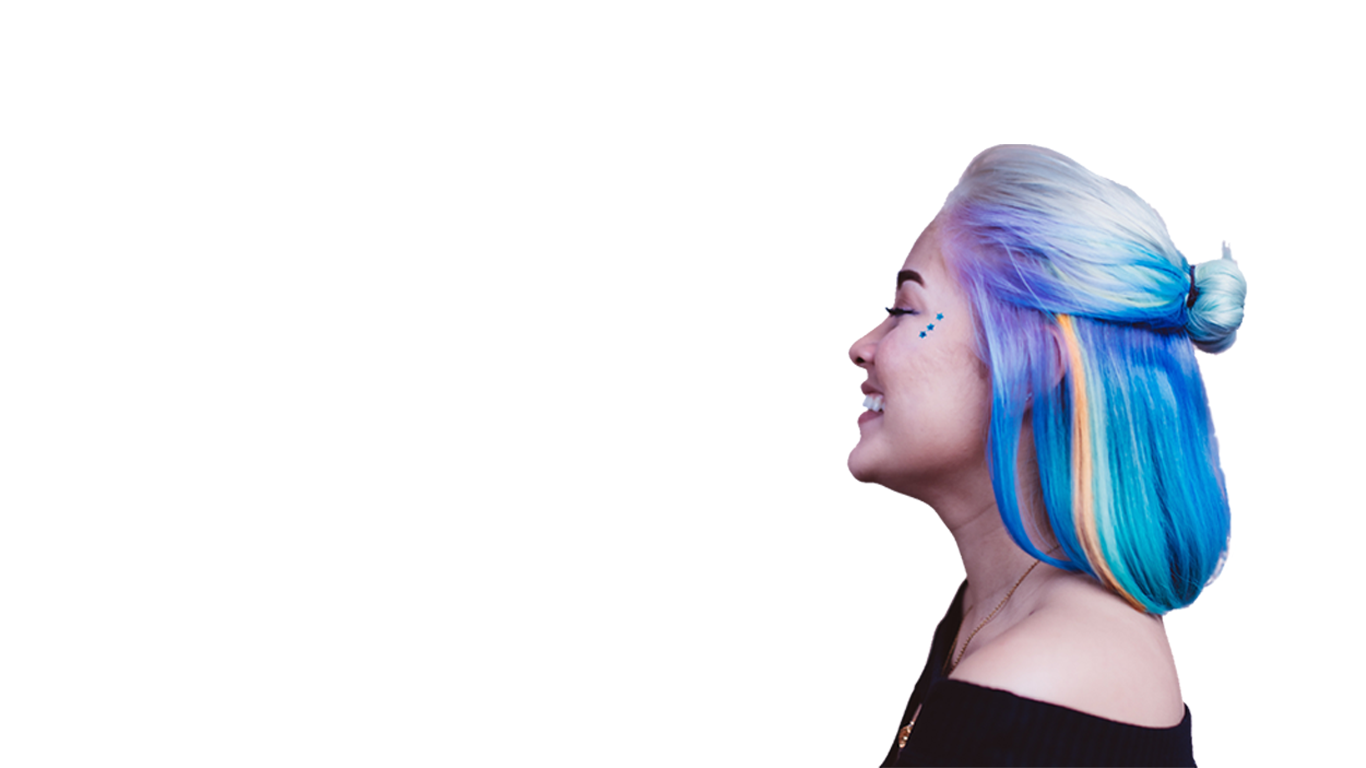
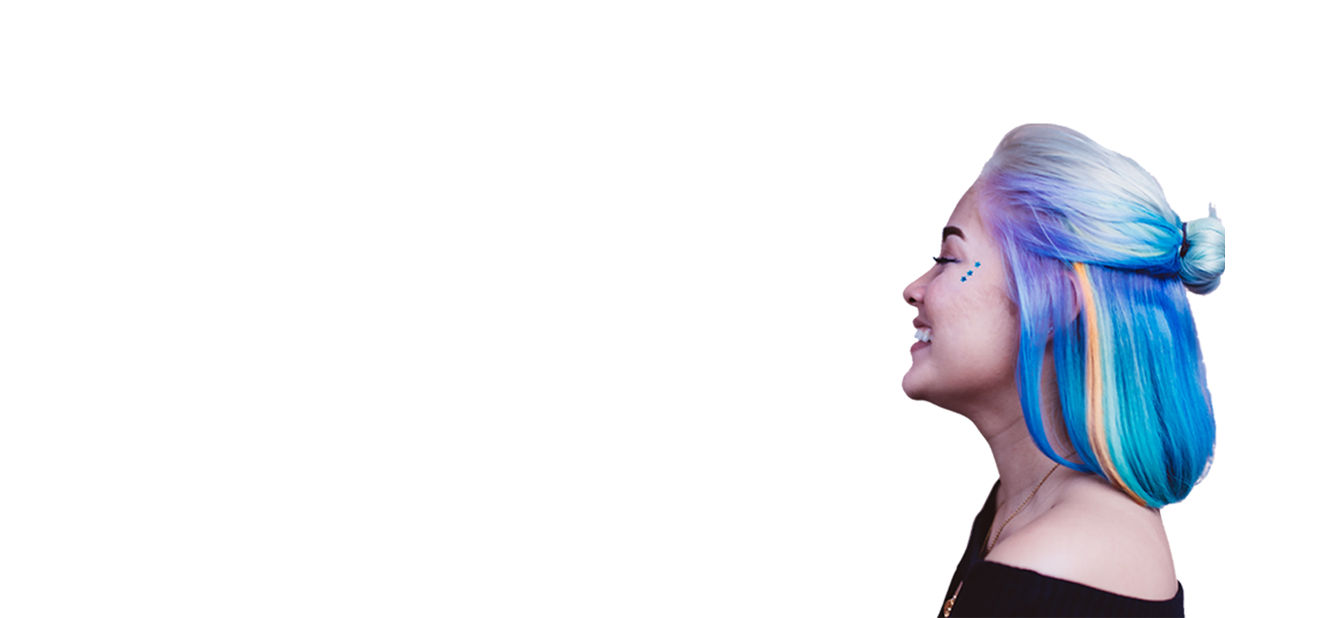
Third commit

Changed region(s): [[0.6189, 0.1845, 0.9283, 1.0]]

diff --git a/sass/header.scss b/sass/header.scss
@@ -13,12 +13,13 @@
   //width: 100%;
   //clip-path: polygon(0 0, 100% 0, 100% 95%, 0 120%);
   margin-bottom: -5rem;
-
   ///IT MADE A WIERD PROBLEM....MY HOVER DOESNT WORK BECAUSE OF IT
   //z-index: -100;
-
   position: relative;
 
+  @media only screen and (max-width: 1550px) {
+    background-image: url("../img/header.pic-1500.png");
+  }
   @media only screen and (max-width: 1400px) {
     background-image: url("../img/header.pic-1400.png");
   }

diff --git a/css/style.css b/css/style.css
@@ -226,6 +226,9 @@
   display: block;
   margin-bottom: -5rem;
   position: relative; }
+  @media only screen and (max-width: 1550px) {
+    .salon-header {
+      background-image: url("../img/header.pic-1500.png"); } }
   @media only screen and (max-width: 1400px) {
     .salon-header {
       background-image: url("../img/header.pic-1400.png"); } }
